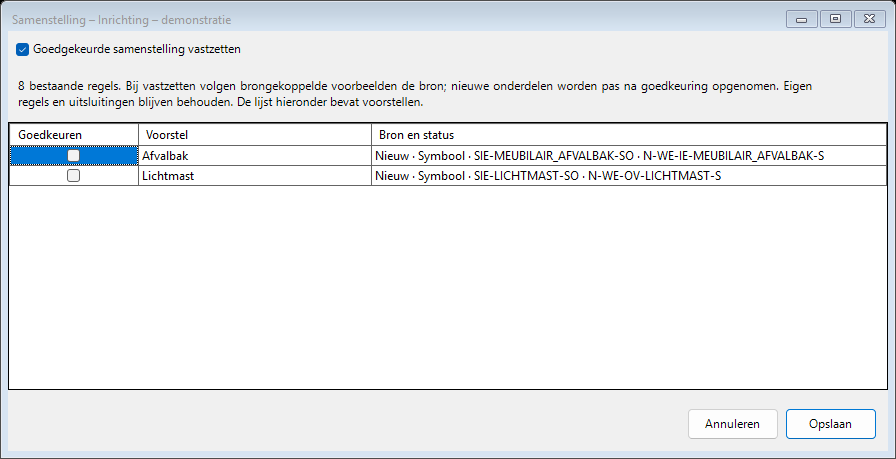
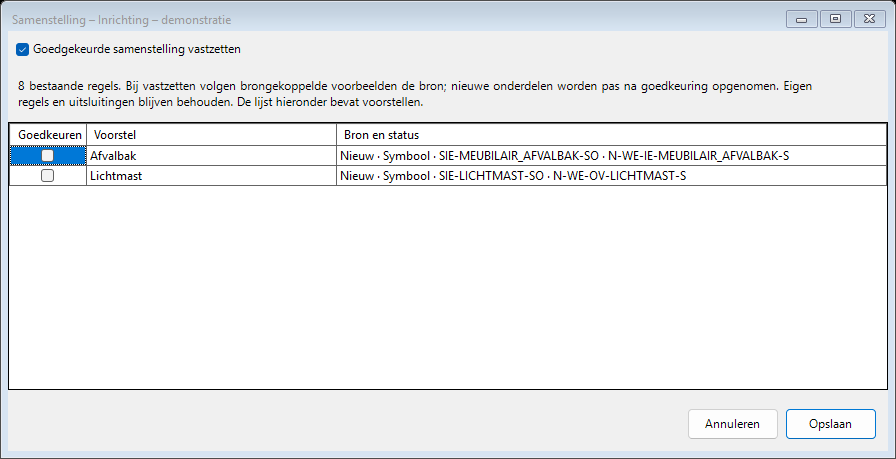
Rond bladvergelijking en leesbaarheid van keuzevakken af (#83)
* Houd keuzevakken leesbaar bij vergrote schermtekst

* Herken verwisselde teksten bij dezelfde kleurvarianten op andere bladen

Changed region(s): [[0.375, 0.2745, 0.9062, 0.3965], [0.0312, 0.2745, 0.2188, 0.3965]]

diff --git a/src/NlcsLegenda.Plugin/ManagedLegendDialog.cs b/src/NlcsLegenda.Plugin/ManagedLegendDialog.cs
@@ -18,7 +18,7 @@ internal sealed class CompositionDialog : LegendDialog
         StartPosition = FormStartPosition.CenterParent; ShowIcon = false; ShowInTaskbar = false;
         _locked.Checked = definition.CompositionLocked;
         _grid.CurrentCellDirtyStateChanged += (_, _) => { if (_grid.IsCurrentCellDirty) _grid.CommitEdit(DataGridViewDataErrorContexts.Commit); };
-        _grid.Columns.Add(new DataGridViewCheckBoxColumn { HeaderText = "Goedkeuren", FillWeight = 55 });
+        _grid.Columns.Add(new DataGridViewCheckBoxColumn { HeaderText = "Goedkeuren", AutoSizeMode = DataGridViewAutoSizeColumnMode.AllCells });
         _grid.Columns.Add("description", "Voorstel"); _grid.Columns.Add("source", "Bron en status");
         _grid.Columns[1].ReadOnly = _grid.Columns[2].ReadOnly = true; _grid.Columns[2].FillWeight = 220;
         foreach (var entry in proposals)
@@ -46,10 +46,10 @@ internal sealed class SheetComparisonDialog : LegendDialog
         .Where(r => Equals(r.Cells[0].Value, true)).Select(r => (SheetDifference)r.Tag!).Select(d => new SheetComparisonException(d.Key, d.Fingerprint)).ToArray();
     public SheetComparisonDialog(IReadOnlyList<SheetDifference> differences)
     {
-        Text = "Legendas tussen bladen vergelijken"; ClientSize = new Size(1000, 600); MinimumSize = new Size(540, 350);
+        Text = "Legenda's tussen bladen vergelijken"; ClientSize = new Size(1000, 600); MinimumSize = new Size(540, 350);
         StartPosition = FormStartPosition.CenterParent; ShowIcon = false; ShowInTaskbar = false;
         _grid.CurrentCellDirtyStateChanged += (_, _) => { if (_grid.IsCurrentCellDirty) _grid.CommitEdit(DataGridViewDataErrorContexts.Commit); };
-        _grid.Columns.Add(new DataGridViewCheckBoxColumn { HeaderText = "Bewuste uitzondering", FillWeight = 55 });
+        _grid.Columns.Add(new DataGridViewCheckBoxColumn { HeaderText = "Uitzondering", AutoSizeMode = DataGridViewAutoSizeColumnMode.AllCells });
         _grid.Columns.Add("description", "Onderdeel"); _grid.Columns.Add("details", "Verschillen");
         _grid.Columns[1].ReadOnly = _grid.Columns[2].ReadOnly = true; _grid.Columns[2].FillWeight = 250;
         foreach (var d in differences) _grid.Rows[_grid.Rows.Add(d.Accepted, d.Description, d.Details)].Tag = d;

diff --git a/src/NlcsLegenda.Core/ManagedExamples.cs b/src/NlcsLegenda.Core/ManagedExamples.cs
@@ -77,14 +77,16 @@ public static class LegendSheetComparison
             string Set(IEnumerable<string> values) => System.Text.Json.JsonSerializer.Serialize(values.Distinct().OrderBy(v => v, StringComparer.Ordinal));
             bool descriptions = sheets.Select(g => Set(g.Select(r => r.Row.Description.Trim()))).Distinct(StringComparer.Ordinal).Count() > 1;
             bool appearance = sheets.Select(g => Set(g.Select(r => DisplayKey(r.Row)))).Distinct(StringComparer.Ordinal).Count() > 1;
-            if (!descriptions && !appearance) continue;
+            bool pairing = sheets.Select(g => Set(g.Select(r => r.Row.Description.Trim() + "\0" + DisplayKey(r.Row)))).Distinct(StringComparer.Ordinal).Count() > 1;
+            if (!descriptions && !appearance && !pairing) continue;
             string details = string.Join(Environment.NewLine, items.Select(r => r.Sheet + " · " + r.Row.Description
                 + " · " + (r.Row.ExampleMode == ExampleMode.Fixed ? "vast voorbeeld" : "bron volgen")
                 + " · " + string.Join("; ", r.Row.ExampleDisplay.Select(d => d.Description))));
             string fingerprint = Convert.ToHexString(System.Security.Cryptography.SHA256.HashData(System.Text.Encoding.UTF8.GetBytes(
                 string.Join("\n", items.Select(r => r.Sheet + "|" + r.LegendId + "|" + r.Row.Description + "|" + DisplayKey(r.Row))))));
             results.Add(new(group.Key, fingerprint, items[0].Row.Description,
-                (descriptions ? "Andere omschrijving. " : "") + (appearance ? "Andere weergave. " : "") + Environment.NewLine + details,
+                (descriptions ? "Andere omschrijving. " : "") + (appearance ? "Andere weergave. " : "")
+                    + (!descriptions && !appearance && pairing ? "Omschrijving en weergave zijn anders gekoppeld. " : "") + Environment.NewLine + details,
                 accepted.Contains(new(group.Key, fingerprint))));
         }
         return results;

diff --git a/tests/NlcsLegenda.Core.Tests/ManagedLegendTests.cs b/tests/NlcsLegenda.Core.Tests/ManagedLegendTests.cs
@@ -177,6 +177,21 @@ public class ManagedLegendTests
     }
 
     [Fact]
+    public void SheetComparisonDetectsSwappedDescriptionsBetweenColorVariants()
+    {
+        var a = Saved(Entry("A")); var b = Saved(Entry("B"));
+        a.Description = "Leiding links"; b.Description = "Leiding rechts";
+        a.ExampleDisplay = new() { new("rood", "streep", 25, 0) };
+        b.ExampleDisplay = new() { new("blauw", "streep", 25, 0) };
+        var changedA = a.Clone(); var changedB = b.Clone();
+        changedA.Description = b.Description; changedB.Description = a.Description;
+        var rows = new[] { new SheetLegendRow("0060", "l1", a), new SheetLegendRow("0060", "l1", b),
+            new SheetLegendRow("0061", "l2", changedA), new SheetLegendRow("0061", "l2", changedB) };
+        var difference = Assert.Single(LegendSheetComparison.Compare(rows, Array.Empty<SheetComparisonException>()));
+        Assert.Contains("anders gekoppeld", difference.Details);
+    }
+
+    [Fact]
     public void ManualRuleWithoutComparableIdentityIsReportedInsteadOfClaimingAgreement()
     {
         var row = new SavedLegendRow { Description = "Eigen markering", Manual = true };
